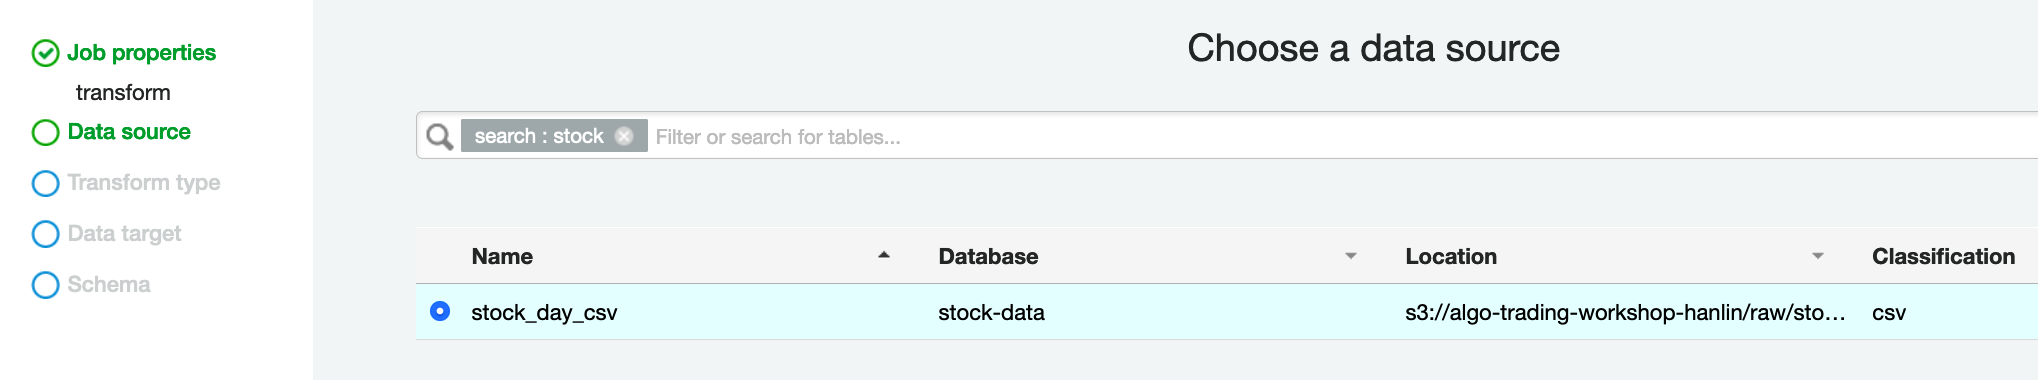
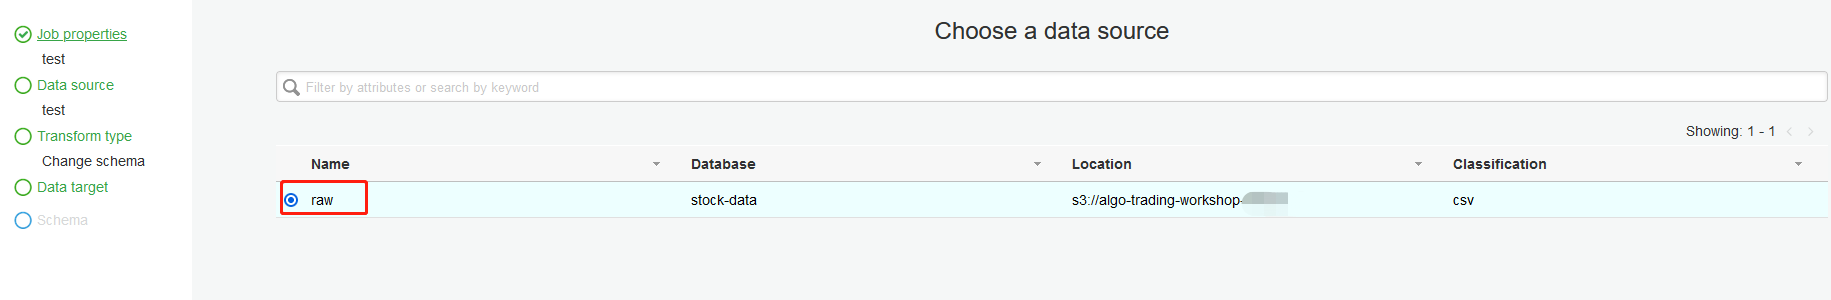
fixed 1.1

diff --git a/content/1.SetupPlatform/1.1.quickstart_datalake.zh_cn.md b/content/1.SetupPlatform/1.1.quickstart_datalake.zh_cn.md
@@ -26,7 +26,7 @@ database = 'stock-data'
 接下来的步骤建议您通过 Glue（选项一） 或 Athena（选项二）其中一种方式对数据表进行简单的 ETL。ETL 是指将数据经过抽取、清洗转换之后变为可用形式的过程。除了这两种选择之外，您还可以尝试使用 Glue Databrew（选项三），进行完全无代码的 ETL 工作。
 
 ### 选项一：通过 Glue 控制台创建 Glue 爬虫以及 ETL 任务
-#### 通过 Glue 控制台创建 Glue 爬虫
+#### 创建 Glue 爬虫
 
 请导航到 Glue 控制台：[https://console.aws.amazon.com/glue/home?region=us-east-1](https://console.aws.amazon.com/glue/home?region=us-east-1)
 
@@ -39,7 +39,7 @@ database = 'stock-data'
 - **Crawler type resource** 选择 **Data Stores** 和 **Crawler all folders**：
 ![](/images/1.1.catalog_glue/004.png)
 
-- **Data store** 选择 **S3**，数据路径选择之前拷贝 **stock_day.csv** 对应的 S3 路径：
+- **Data store** 选择 **S3**，数据路径选择之前拷贝 **stock_day.csv** 对应的 S3 路径 **s3://algo-trading-workshop-xxx/raw**：
 ![](/images/1.1.catalog_glue/005.png)
 
 - 下一步选择 **No**（不需添加另外的数据源）：
@@ -81,13 +81,14 @@ database = 'stock-data'
 - 可以看到爬虫作业已经完成，并创建创了一个表：
 ![](/images/1.1.catalog_glue/018.png)
 
-- 可以在 Database 下 Tables 中查看该表，单击 **stock_day_csv**：
+- 可以在 Database 下 Tables 中查看该表，单击 **raw**：
 ![](/images/1.1.catalog_glue/019.png)
 
 - 可以看到表的 **Schema**：
 ![](/images/1.1.catalog_glue/020.png)
 
-#### 通过 Glue 控制台创建 ETL 任务
+
+#### 创建 ETL 任务
 
 以下操作仍然在 Glue 控制台中进行：[https://console.aws.amazon.com/glue/home?region=us-east-1](https://console.aws.amazon.com/glue/home?region=us-east-1)
 
@@ -97,13 +98,13 @@ database = 'stock-data'
 - 请填入自定义名称，IAM Role 选择之前创建的 **AdAWSGlueServiceRole-xxx**，**Glue version** 选择 **Spark 2.4 （Glue version 2.0）**：
 ![](/images/1.1.1.etl_glue/102.png)
 
-- 选择数据源为 **stock_day_csv**：
+- 选择数据源为 **raw**：
 ![](/images/1.1.1.etl_glue/103.png)
 
 - 选择 **transform type** 为 **Change Schema**：
 ![](/images/1.1.1.etl_glue/104.png)
 
-- 数据目标选择为 **S3**，数据格式为 **parquet**，目标路径为新建的 **s3://algo-trading-workshop-xxx/parquet** 目录：
+- 数据目标选择为 **S3**，数据格式为 **parquet**，目标路径为新建的 **s3://algo-trading-workshop-xxx/stock_day** 目录：
 ![](/images/1.1.1.etl_glue/105.png)
 
 - 可以看到源和目标的数据类型，此处不做修改：
@@ -118,13 +119,30 @@ database = 'stock-data'
 - 回到 AWS Glue 下 **Jobs** 界面，选择刚才运行的任务，可以看到任务已经在运行：
 ![](/images/1.1.1.etl_glue/109.png)
 
-- 直到任务运行完成，可以看到执行的时间和状态，在 **s3://algo-trading-workshop-xxx/parquet** 下查看刚才转换完成的数据集：
+- 直到任务运行完成，可以看到执行的时间和状态，在 **s3://algo-trading-workshop-xxx/stock_day** 下查看刚才转换完成的数据集：
 ![](/images/1.1.1.etl_glue/110.png)
+
+#### 重新爬取转换后的数据表
+
+以下操作仍然在 Glue 控制台中进行：[https://console.aws.amazon.com/glue/home?region=us-east-1](https://console.aws.amazon.com/glue/home?region=us-east-1)
+
+- 回到之前查看 Crawler 的界面，选中之前创建的 Crawler，并点击 **Action** 下的 ***Edit Crawler*：
+![](/images/1.1.1.etl_glue/111.png)
+
+- 在第三项 **Data Store** 中选中数据目录为 **s3://algo-trading-workshop-xxx/stock_day**：
+![](/images/1.1.1.etl_glue/112.png)
+
+- 保存之后再重新运行一遍 Crawler。运行完成之后可以在 **Tables** 中找到新爬取的 **stock_day** 表：
+![](/images/1.1.1.etl_glue/113.png)
+
+您现在已经完成了通过 Glue 进行数据处理的步骤。接下来的环节将通过 Athena 达到同样的效果。区别是，使用 Athena 需要我们事先知道表结构，并定义正确的 SQL 语句完成数据操作。
+
+如果还想体验 Athena，请删除之前爬取的两个表以及 **s3://algo-trading-workshop-xxx/stock_day** 路径下的数据，再进行选项二中的操作。
 
 
 ### 选项二：通过 Athena 控制台直接建表并进行 ETL
 
-在开始使用 Athena 之前，请先导航到 Glue 控制台：[https://console.aws.amazon.com/glue/home?region=us-east-1](https://console.aws.amazon.com/glue/home?region=us-east-1)
+如果之前没有在 Glue 中创建过数据库，请先导航到 Glue 控制台：[https://console.aws.amazon.com/glue/home?region=us-east-1](https://console.aws.amazon.com/glue/home?region=us-east-1)
 
 - 在控制台中点击左侧 **Databases**，然后在右侧页面点击 **Add database**：
 ![](/images/1.1.2.etl_athena/300.png)
@@ -139,7 +157,7 @@ database = 'stock-data'
 - 请确保左侧的 **Database** 选项中选中的是刚刚创建的 **stock-data** 数据库，而并非 default 或其他数据库
 - 创建原始数据表的 SQL 语句（需要将 algo-trading-workshop-xxx 修改为您自定义的存储桶名）：
 ```
-CREATE EXTERNAL TABLE IF NOT EXISTS stock_day_raw (
+CREATE EXTERNAL TABLE IF NOT EXISTS raw (
   ticker string,
   secID string,
   tradeDate string,
@@ -176,7 +194,7 @@ CREATE EXTERNAL TABLE IF NOT EXISTS stock_day (
   isOpen boolean
 )
 STORED AS parquet
-LOCATION 's3://algo-trading-workshop-xxx/parquet'
+LOCATION 's3://algo-trading-workshop-xxx/stock_day'
 ```
 
 - 再点击 **Run query**，可以看到左侧新生成的 **stock_day** 数据表
@@ -186,10 +204,10 @@ LOCATION 's3://algo-trading-workshop-xxx/parquet'
 ```
 INSERT INTO stock_day
 SELECT *
-FROM stock_day_raw;
+FROM raw;
 ```
 
-语句执行完成之后，应该也可以在 **s3://algo-trading-workshop-xxx/parquet** 下看到生成的数据：
+语句执行完成之后，应该也可以在 **s3://algo-trading-workshop-xxx/stock_day** 下看到生成的数据：
 ![](/images/1.1.2.etl_athena/304.png)
 
 
